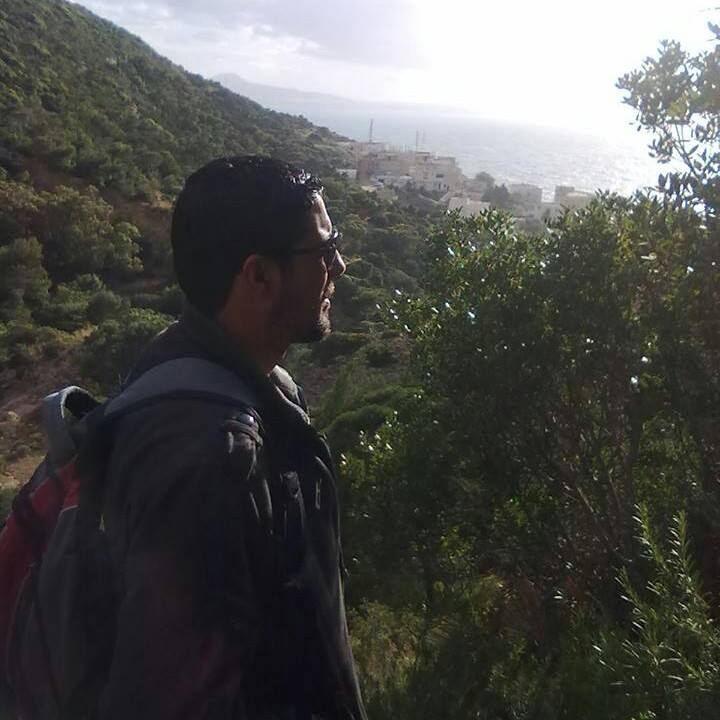
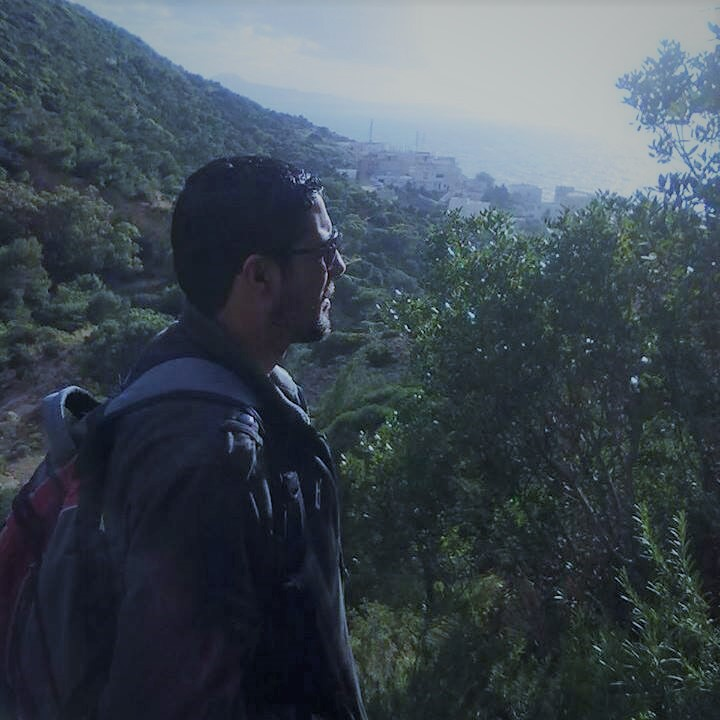
header

diff --git a/css/main.css b/css/main.css
@@ -4,8 +4,9 @@ body {
 }
 a {
     text-decoration: none;
+    font-family: "Lucida Console", "Courier New", monospace;
 }
-.et-hero-tabs, .et-slide {
+.et-slide {
     display: flex;
     flex-direction: column;
     justify-content: center;
@@ -17,7 +18,7 @@ a {
     text-align: center;
    /*  padding: 0 2em; */
 }
-.et-hero-tabs h1, .et-slide h1 {
+/* .et-hero-tabs h1, .et-slide h1 {
     font-size: 2rem;
     margin: 0;
     letter-spacing: 1rem;
@@ -26,7 +27,7 @@ a {
     font-size: 1rem;
     letter-spacing: 0.3rem;
     opacity: 0.6;
-}
+} */
 .et-hero-tabs-container {
     display: flex;
     flex-direction: row;
@@ -35,7 +36,7 @@ a {
     width: 100%;
     height: 70px;
     box-shadow: 0 0 20px rgba(0, 0, 0, 0.1);
-    background-color: rgba(102,177,241,0.8);
+    background-color: rgba(0, 0, 0, 0.5);
     z-index: 10;
     transition: height 0.5s;
 }
@@ -50,14 +51,13 @@ a {
     justify-content: center;
     align-items: center;
     flex: 1;
-    color: #000;
+    color: #ffffff;
     letter-spacing: 0.1rem;
     transition: all 0.5s ease;
-    font-size: 0.8rem;
-    font-weight: 600;
+    font-size: 0.6rem;
 }
 .et-hero-tab:hover {
-    color: white;
+    color: rgb(0, 0, 0);
     background:  rgb(102,177,241);
     transition: all 0.5s ease;
 }
@@ -69,18 +69,8 @@ a {
     background:  #66B1F1;
     transition: left 0.3s ease;
 }
-/* .profil{
-    width: 150px;
-    position: absolute;
-    top: 50px; 
-    left: 50px;
-    border-radius: 50%;
-    z-index: 99; 
-    opacity: 0.9;
-    box-shadow: 0px 10px 13px -7px #000000, 5px 5px 29px 5px rgba(0,15,100,0);
-} */
+
 .et-hero-tabs-container .profil-tab{
-    /* border-radius: 50%; */
     position: absolute;
     width: 150px;
     top: -150px;
@@ -93,7 +83,12 @@ a {
     top: 50px;
     border-radius: 0 50% 50% 50%;
 }
-@media (min-width: 800px) {
+@media (min-width: 768px){
+    .et-hero-tab {
+        font-size: 1rem;
+   }
+}
+@media (min-width: 991px) {
     .et-hero-tabs-container .profil-tab{
         width: 300px;
         top: -300px;
@@ -102,13 +97,11 @@ a {
         width: 100px;
         top: 50px;
     }
-    .et-hero-tabs h1, .et-slide h1 {
+   /*  .et-hero-tabs h1, .et-slide h1 {
         font-size: 3rem;
    }
     .et-hero-tabs h3, .et-slide h3 {
         font-size: 1rem;
-   }
-    .et-hero-tab {
-        font-size: 1rem;
-   }
+   } */
+    
 }

diff --git a/css/header.css b/css/header.css
@@ -29,7 +29,7 @@
     top: 0;
     width: 100%;
     height: 100%;
-    opacity: 0.5;
+    opacity: 0.6;
     background-color: black;
     background-repeat: no-repeat;
     background-position: 50% 0;
@@ -134,31 +134,46 @@
         transform: scale(1);
    }
 }
-/* h1 {
+ .welcome {
     position: absolute;
-    top: 50%;
+    width: 170px;
+    top: 30%;
     left: 50%;
     transform: translate3d(-50%, -50%, 0);
     z-index: 99;
     text-align: center;
-    font-family: Raleway, sans-serif;
-    font-weight: 300;
-    text-transform: uppercase;
-    background-color: rgba(255, 255, 255, .75);
-    box-shadow: 0 1em 2em -1em rgba(0, 0, 0, .5);
+    font-family: "Lucida Console", "Courier New", monospace;
+    background-color: rgba(0, 0, 0, 0.5);
+    color: yellow;
+    box-shadow: 0 1em 2em -1em rgba(255, 255, 255, 0.5);
     padding: 1em 2em;
     line-height: 1.5;
+    letter-spacing: 0.3rem;
 }
-h1 small {
+.welcome small {
     display: block;
-    text-transform: lowercase;
-    font-size: 0.7em;
+    /* font-size: 0.7em; */
+    line-height: 1.5;
+    letter-spacing: 0.3rem;
+    color: white;
 }
-h1 small:first-child {
+.welcome small:first-child {
     border-bottom: 1px solid rgba(0, 0, 0, .25);
     padding-bottom: 0.5em;
 }
-h1 small:last-child {
+.welcome small:last-child {
     border-top: 1px solid rgba(0, 0, 0, .25);
     padding-top: 0.5em;
-} */
+}
+@media (min-width: 768px){
+    .welcome {
+        width: 400px;
+        top: 40%;
+    }
+}
+@media (min-width: 991px){
+    .welcome {
+        width: 500px;
+        left: 60%;
+    }
+}

diff --git a/index.html b/index.html
@@ -11,8 +11,8 @@
 <body>
       <!-- Hero -->
   <section class="et-hero-tabs">
-    <!-- <h1><small>Fullscreen</small> Ken Burns effect <small>without javascript</small></h1> -->
-    <!-- <img class="profil" src="img/10486013_804316429603147_6878743897354394982_n.jpg" alt="profil"> -->
+    <h1 class="welcome"><small>Bonjour , je m'appelle</small> Mohamed Hedi Sekma <small>Développeur Web - Intégrateur</small></h1> 
+   
     <!-- You can add more ".slideshow-image" elements, but remember to update the "$items" variable on SCSS -->
 
     <div class="slideshow">
